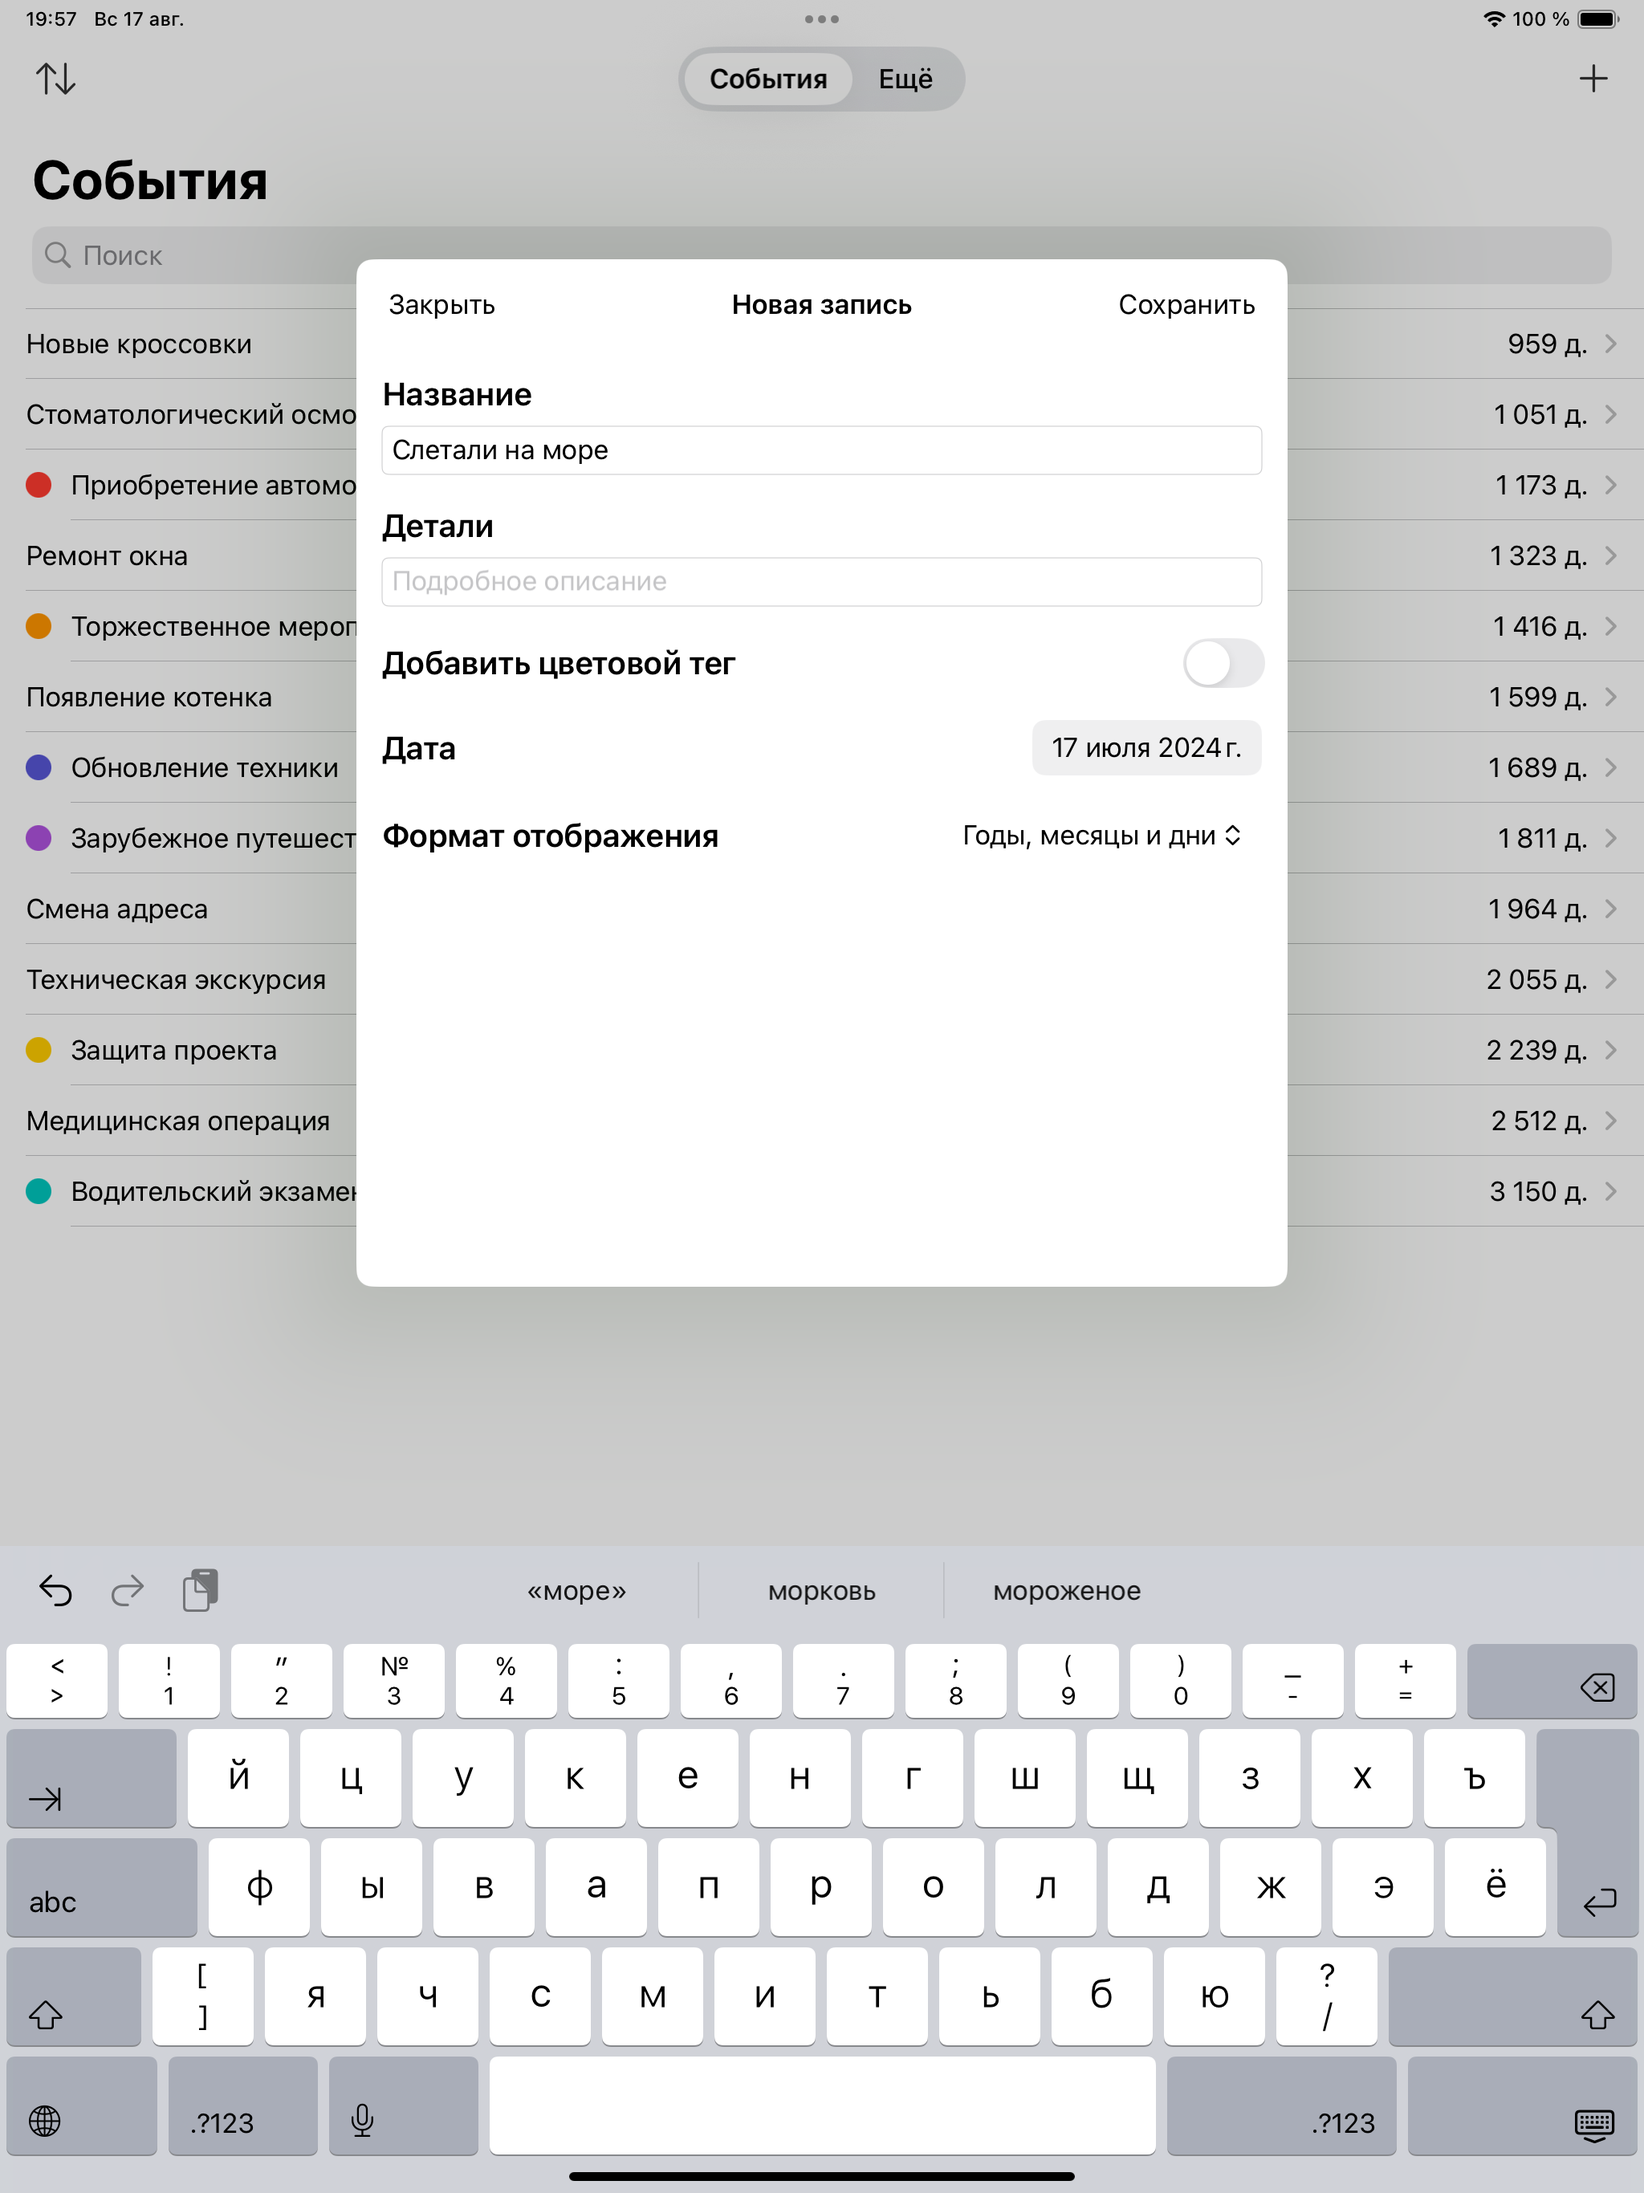
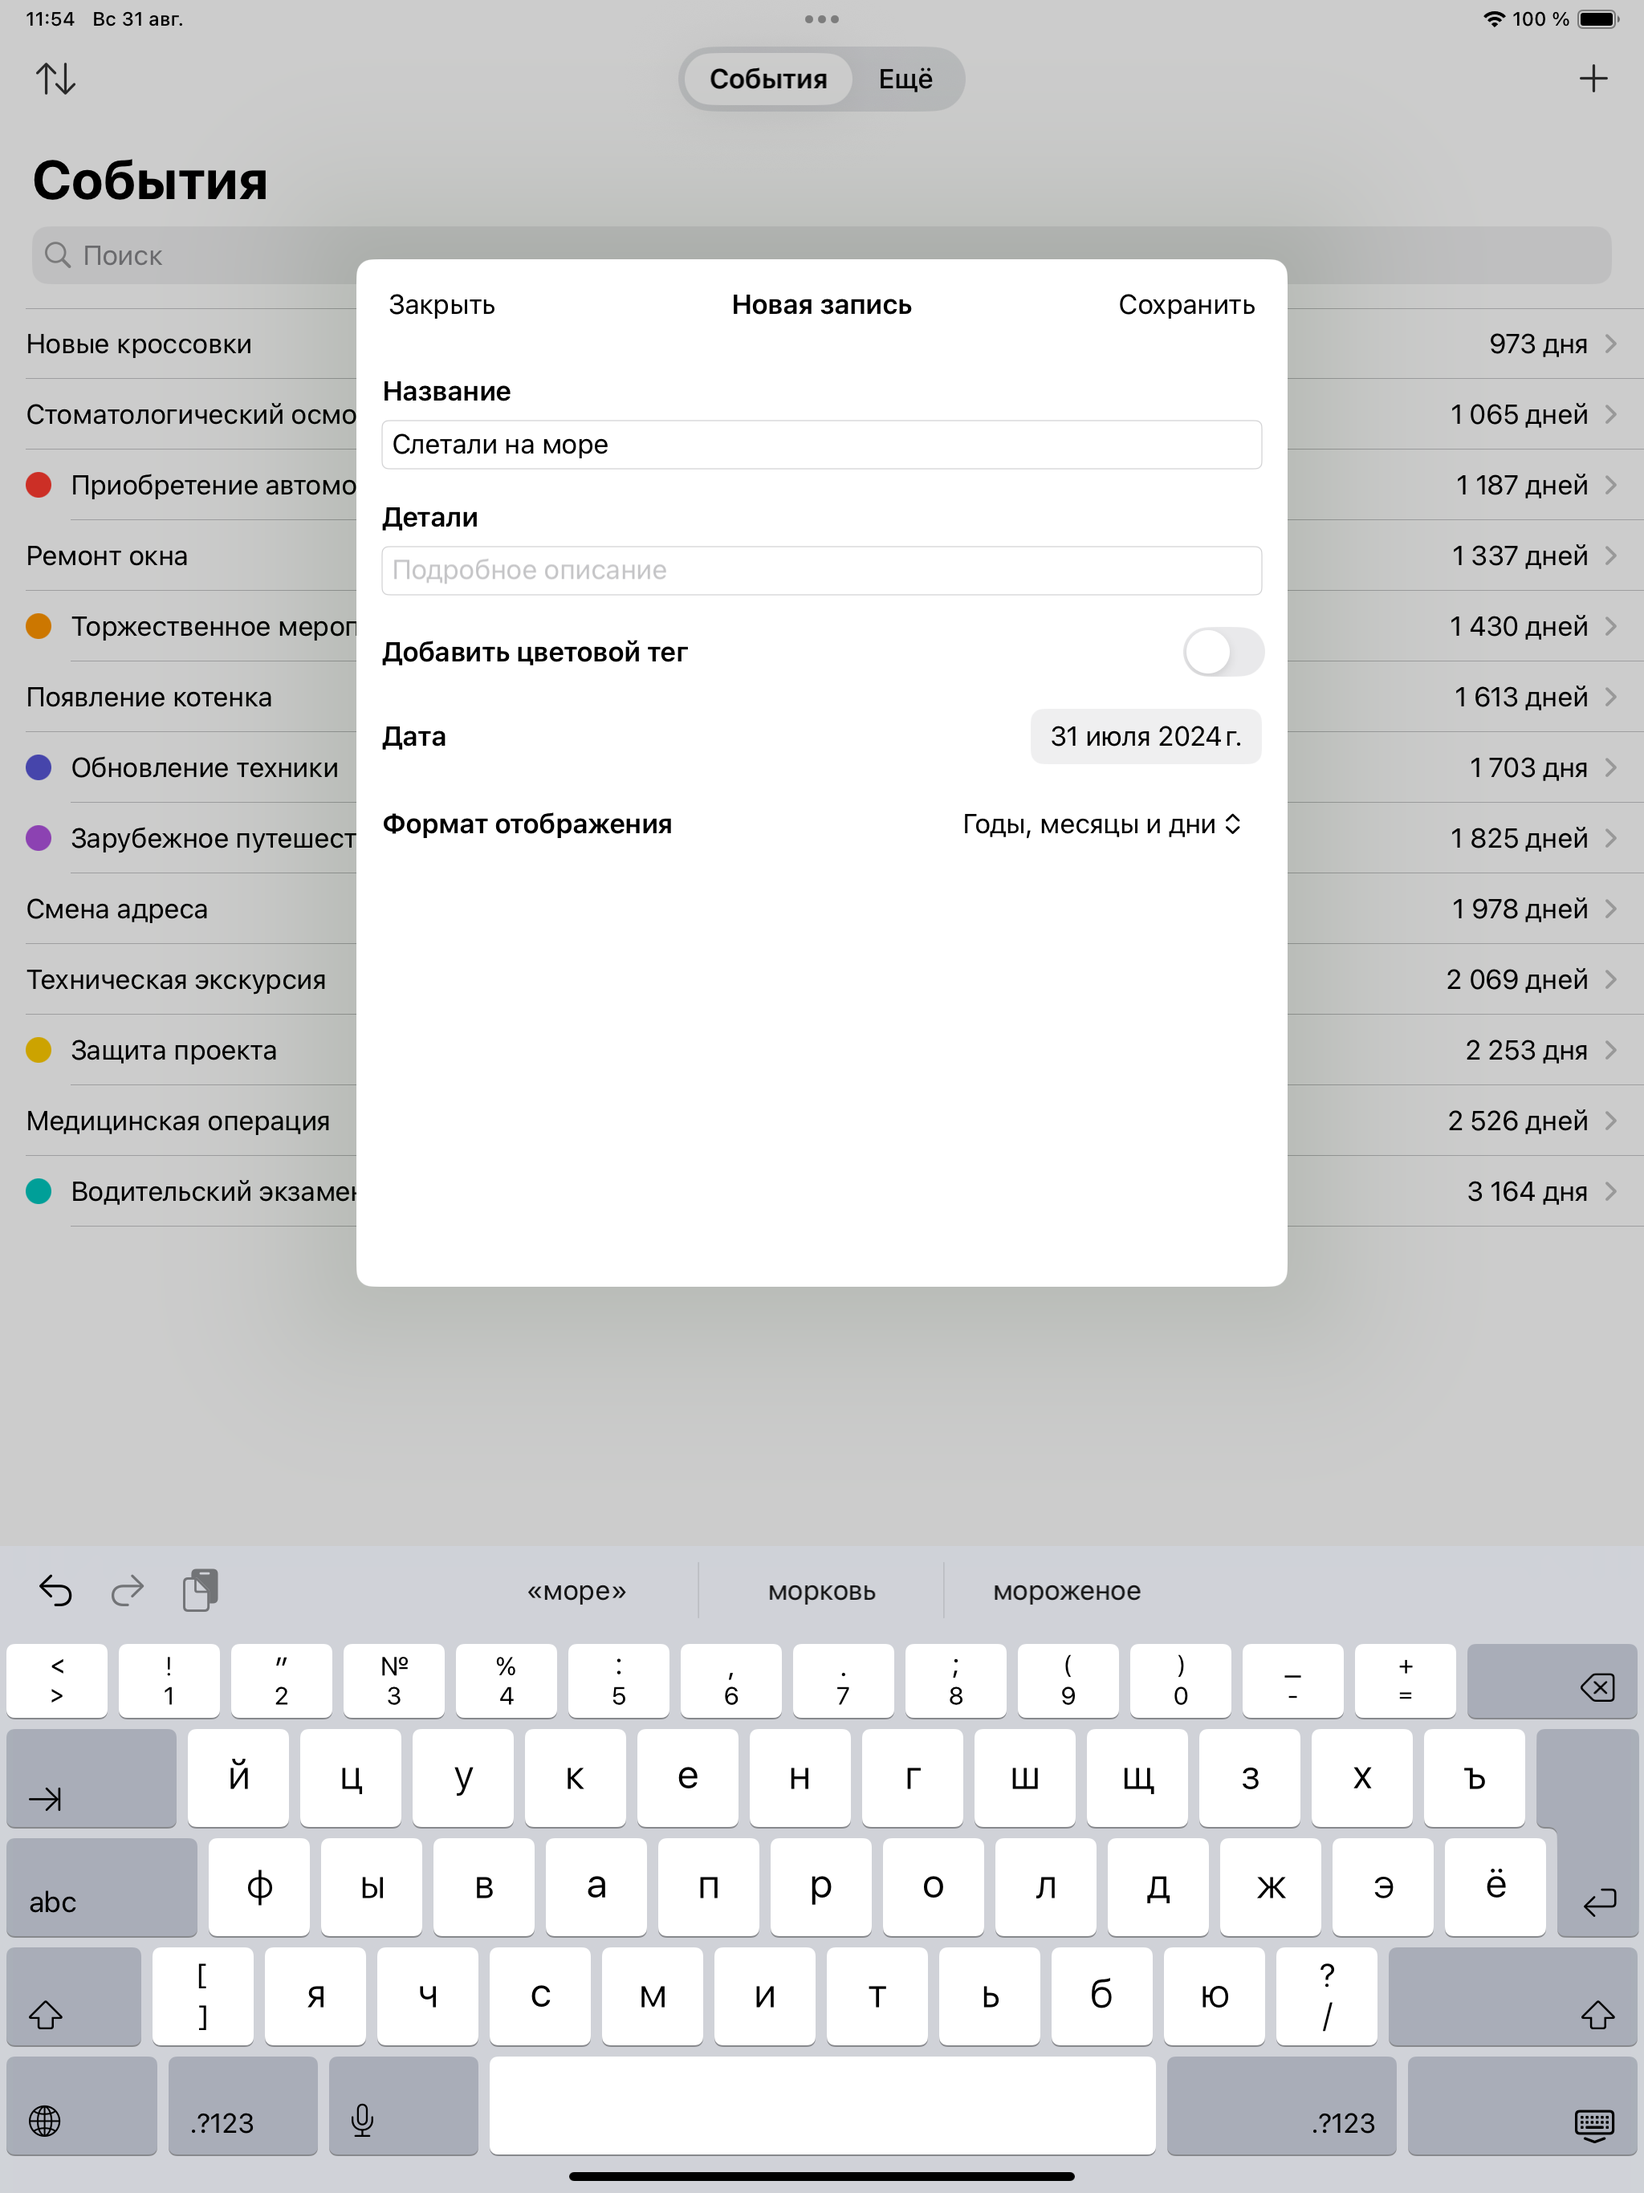
Небольшой редизайн (#16)
* Удалил лишнюю строку

* Добавил скролл на экран создания события

По аналогии с редактированием

* Убрал неработающую настройку шрифтов

* Обновил fastfile

Перед генерацией скриншотов настраиваем `tint` для корневого экрана, чтобы в тестах `tint` был не синим (дефолтным), а черным (как нужно)

* Обновил скриншоты

* Небольшой редизайн

- Убрал шрифт title3, оставил жирный шрифт для заголовков
- Сделал переиспользуемую вьюху для заголовков секций
- Обновил основную иконку

diff --git a/SwiftUI-Days/Screens/CommonViews/SectionTitleView.swift b/SwiftUI-Days/Screens/CommonViews/SectionTitleView.swift
@@ -1,0 +1,35 @@
+import SwiftUI
+
+struct SectionTitleView: View {
+    @Environment(\.isEnabled) private var isEnabled
+    private let title: LocalizedStringKey
+
+    init(_ title: LocalizedStringKey) {
+        self.title = title
+    }
+
+    var body: some View {
+        Text(title)
+            .bold()
+            .foregroundStyle(isEnabled ? .primary : .secondary)
+            .frame(maxWidth: .infinity, alignment: .leading)
+    }
+}
+
+#Preview(traits: .sizeThatFitsLayout) {
+    let titleStringKeys: [LocalizedStringKey] = [
+        "Title",
+        "Details",
+        "Add color tag",
+    ]
+    VStack(spacing: 20) {
+        ForEach(
+            Array(zip(titleStringKeys.indices, titleStringKeys)),
+            id: \.0
+        ) { _, title in
+            SectionTitleView(title)
+            SectionTitleView(title)
+                .disabled(true)
+        }
+    }
+}

diff --git a/SwiftUI-Days/Screens/More/ThemeIcon/ThemeIconScreen.swift b/SwiftUI-Days/Screens/More/ThemeIcon/ThemeIconScreen.swift
@@ -20,9 +20,7 @@ struct ThemeIconScreen: View {
 
     private var themePicker: some View {
         HStack(spacing: 12) {
-            Text("App theme")
-                .bold()
-                .frame(maxWidth: .infinity, alignment: .leading)
+            SectionTitleView("App theme")
                 .accessibilityHidden(true)
             Picker(
                 "App theme",
@@ -42,9 +40,7 @@ struct ThemeIconScreen: View {
 
     private var iconsGrid: some View {
         VStack(spacing: 16) {
-            Text("App Icon")
-                .bold()
-                .frame(maxWidth: .infinity, alignment: .leading)
+            SectionTitleView("App Icon")
             LazyVGrid(
                 columns: [GridItem(.adaptive(minimum: 65), spacing: 32, alignment: .leading)],
                 spacing: 32

diff --git a/SwiftUI-Days/SwiftUI_DaysApp.swift b/SwiftUI-Days/SwiftUI_DaysApp.swift
@@ -38,10 +38,8 @@ struct SwiftUI_DaysApp: App {
     var body: some Scene {
         WindowGroup {
             RootScreen()
-                .dynamicTypeSize(...DynamicTypeSize.accessibility2)
                 .environment(appSettings)
                 .preferredColorScheme(appSettings.appTheme.colorScheme)
-//                .tint(.accent) // раскомментировать для UI-тестов, иначе accentColor сбрасывается
         }
         .modelContainer(sharedModelContainer)
     }

diff --git a/SwiftUI-Days/Screens/Detail/ItemDisplayOptionPicker.swift b/SwiftUI-Days/Screens/Detail/ItemDisplayOptionPicker.swift
@@ -5,9 +5,7 @@ struct ItemDisplayOptionPicker: View {
 
     var body: some View {
         HStack(spacing: 12) {
-            Text("Display format")
-                .font(.title3.bold())
-                .frame(maxWidth: .infinity, alignment: .leading)
+            SectionTitleView("Display format")
                 .accessibilityHidden(true)
             Picker("Display format", selection: $displayOption) {
                 ForEach(DisplayOption.allCases, id: \.self) { option in

diff --git a/SwiftUI-Days/Screens/Main/MainScreen.swift b/SwiftUI-Days/Screens/Main/MainScreen.swift
@@ -24,7 +24,10 @@ struct MainScreen: View {
         }
         .sheet(isPresented: $showAddItemSheet) {
             NavigationStack {
-                EditItemScreen { showAddItemSheet.toggle() }
+                ScrollView {
+                    EditItemScreen { showAddItemSheet.toggle() }
+                }
+                .scrollBounceBehavior(.basedOnSize)
             }
         }
     }

diff --git a/SwiftUI-Days/Screens/Detail/EditSectionView.swift b/SwiftUI-Days/Screens/Detail/EditSectionView.swift
@@ -7,7 +7,7 @@ struct EditSectionView: View {
 
     var body: some View {
         VStack(alignment: .leading, spacing: 8) {
-            Text(headerText).font(.title3.bold())
+            SectionTitleView(headerText)
                 .accessibilityHidden(true)
             TextField(placeholder, text: $text, axis: .vertical)
                 .textFieldStyle(.roundedBorder)

diff --git a/SwiftUI-Days/Screens/Detail/ReadSectionView.swift b/SwiftUI-Days/Screens/Detail/ReadSectionView.swift
@@ -6,7 +6,7 @@ struct ReadSectionView: View {
 
     var body: some View {
         VStack(alignment: .leading, spacing: 8) {
-            Text(headerText).font(.title3.bold())
+            SectionTitleView(headerText)
                 .accessibilityIdentifier("sectionHeader")
             Text(bodyText)
                 .accessibilityIdentifier("sectionBody")

diff --git a/SwiftUI-Days/Screens/Detail/EditItemScreen.swift b/SwiftUI-Days/Screens/Detail/EditItemScreen.swift
@@ -87,8 +87,7 @@ struct EditItemScreen: View {
                     }
                 ),
                 label: {
-                    Text("Add color tag")
-                        .font(.title3.bold())
+                    SectionTitleView("Add color tag")
                 }
             )
             if let colorTag {

diff --git a/SwiftUI-Days/Screens/Detail/ItemScreen.swift b/SwiftUI-Days/Screens/Detail/ItemScreen.swift
@@ -80,7 +80,7 @@ struct ItemScreen: View {
                 "Color tag",
                 selection: .constant(colorTag)
             )
-            .font(.title3.bold())
+            .bold()
             .disabled(true)
             .padding(.bottom, 4)
         }

diff --git a/SwiftUI-Days/Screens/Detail/ItemDatePicker.swift b/SwiftUI-Days/Screens/Detail/ItemDatePicker.swift
@@ -9,7 +9,7 @@ struct ItemDatePicker: View {
             selection: $date,
             displayedComponents: .date
         )
-        .font(.title3.bold())
+        .bold()
     }
 }
 
